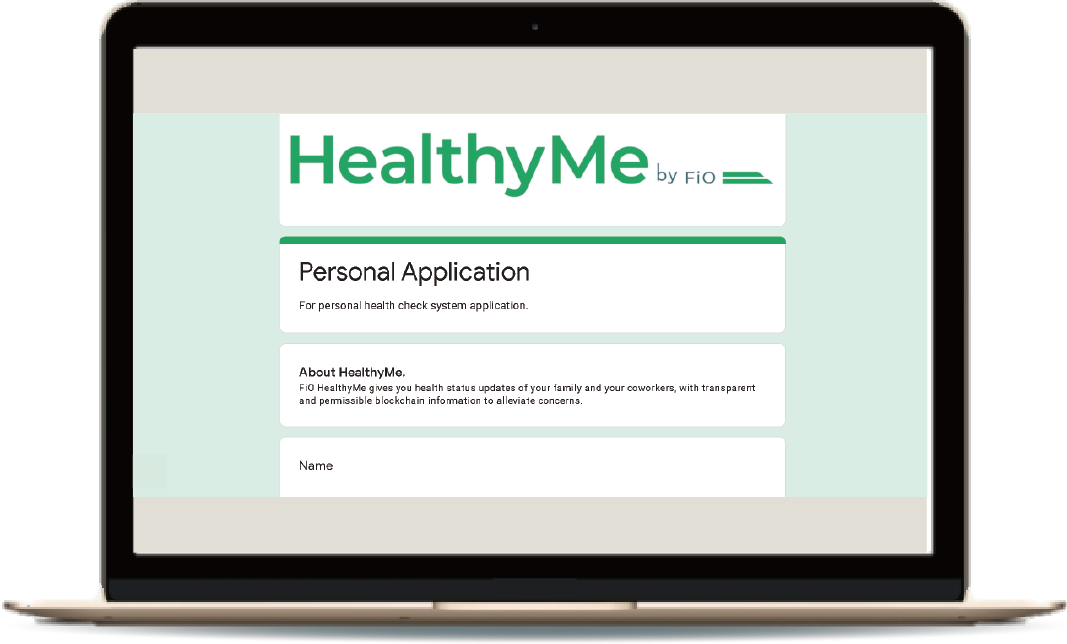
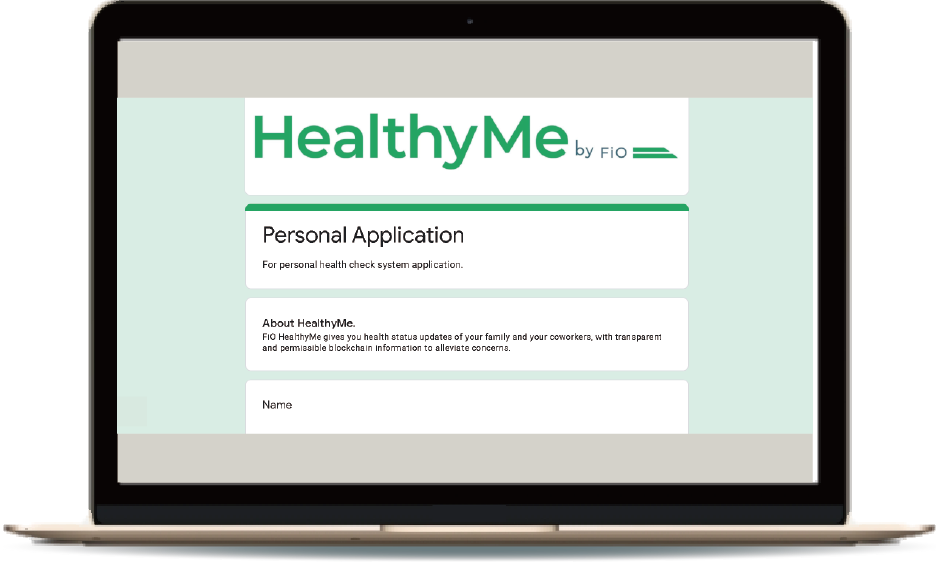
update about, login page, add og info

diff --git a/src/sass/theme.scss b/src/sass/theme.scss
@@ -74,10 +74,11 @@ body {
 }
 
 .content-container {
-  margin-left: 42vw;
+  margin-left: 41.6vw;
   min-height: 100vh;
   .content-container-inner {
-    padding: 140px 60px 60px 60px;
+    box-sizing: border-box;
+    padding: 140px 45px 0 45px;
     min-height: calc(100vh - 140px);
   }
 }
@@ -231,7 +232,7 @@ body {
     @include border-radius(5px);
     padding: 8px 12px;
     line-height: 30px;
-    border: 1px solid $base-color;
+    border: 1px solid #008ec7;
     background: #FFF;
     color: $base-color;
     width: 93%;
@@ -254,10 +255,17 @@ body {
 
 .auth-form, .register-form {
   width: 80%;
+  .title {
+    color: #92b4c5;
+    font-weight: bold;
+    font-size: $xl-font;
+    margin-bottom: 24px;
+  }
   .help-text {
-    font-size: $xs-font;
-    color: $base-color;
-    margin-top: 4px;
+    margin-top: 10px;
+    font-size: $m-font;
+    color: #708b98;
+    font-weight: bold;
   }
   .text-link {
     font-size: $s-font;
@@ -271,6 +279,22 @@ body {
     margin-top: 30px;
     text-align: center;
   }
+  .register-area {
+    margin-top: 65px;
+    .title {
+      color: #566a74;
+      font-size: $m-font;
+      font-weight: bold;
+      margin-bottom: 15px;
+    }
+    .about-link {
+      margin-top: 30px;
+      color: #708b98;
+      font-size: $s-font;
+      text-decoration: underline;
+    }
+  }
+
 }
 
 //button
@@ -389,25 +413,6 @@ body {
   }
 }
 
-.welcome-container {
-  p {
-    color: #92b4c5;
-    margin-bottom: 16px;
-    font-size: $xl-font;
-    padding: 0 30px;
-  }
-  .btn {
-    display: block;
-    width: 100%;
-    text-align: center;
-    padding: 12px 0;
-    margin-bottom: 30px;
-    &:last-child {
-      margin-bottom: 0;
-    }
-  }
-}
-
 .about-cover {
   background-size: cover;
   background: transparent url(../image/about-bg.jpeg) scroll no-repeat 50% 50%;
@@ -441,7 +446,7 @@ body {
   position: relative;
   
   .printscreen {
-    width: 80%;
+    width: 85%;
     margin: 0 auto 15px auto;
     display: block;
   }
@@ -463,6 +468,18 @@ body {
       &:hover {
         color: #e33c0b;
         text-decoration: underline;
+      }
+    }
+    .btn {
+      padding: 8px 24px;
+      display: inline-block;
+      background: #005dab;
+      border: 1px solid #005dab;
+      color: #FFF;
+      &:hover {
+        text-decoration: none;
+        color: #FFF;
+        background: rgba(#005dab, .8);
       }
     }
   }

diff --git a/src/js/main.js b/src/js/main.js
@@ -12,7 +12,7 @@ function validateEmail(email) {
 var data = {
 	user: undefined,
 	username: '',
-	page: 'welcome',
+	page: 'login',
 	apply: {
 		'name': '',
 		'email': '',
@@ -118,7 +118,7 @@ window.addEventListener('load', function () {
 					logTitle: 'Init',
 					hookSuccess: function(aio_data) {
 						if (typeof aio_data.username === 'undefined')
-							return data.page = 'welcome';
+							return data.page = 'login';
 
 						// user logined
 						vue_data.user = {username: aio_data.username};
@@ -143,14 +143,8 @@ window.addEventListener('load', function () {
 					return Math.round(n) + '%';
 				}
 			},
-			//setCookie: function(data) {
-			//	this.$cookies.set('fio_health', {
-			//		// 'login': data.username,
-			//		'token': 1
-			//	}, '1d');
-			//},
 			resetErrorMessage: function(id) {
-				$(id).removeClass('is-invalid is-valid')
+				$(id).find('.form-group').removeClass('is-invalid is-valid')
 					.find('.invalid-feedback').text('');
 			},
 			setErrorMessage: function(id, message) {
@@ -201,7 +195,6 @@ window.addEventListener('load', function () {
 						}
 						break;
 				}
-
 			},
 			register: function() {
 				// reset
@@ -251,14 +244,7 @@ window.addEventListener('load', function () {
 
 				if(validate) {
 					console.log(200);
-
-					//todo: clear form
-					alert('register success.');
-					// vue.goPage('login');
-					// api('/register', data, function(result) {
-					// }, function(result){
-					//		 vue.setErrorMessage('#form-group-username', result.data.message);
-					// });
+					vue.goPage('login');
 				}
 			},
 			login: function() {

diff --git a/src/sass/mobile.scss b/src/sass/mobile.scss
@@ -66,16 +66,6 @@
 	  }
 	}
 
-	.welcome-container {
-	  p {
-	    margin-bottom: 25px;
-	    font-size: $l-font;
-	  }
-	  .btn {
-	    margin-bottom: 25px;
-	  }
-	}
-
 	.about-cover {
 	  nav {
 	    margin: 4px 12px;

diff --git a/src/sass/tablet.scss b/src/sass/tablet.scss
@@ -56,16 +56,6 @@
 	  }
 	}
 
-	.welcome-container {
-	  p {
-	    margin-bottom: 25px;
-	    font-size: $l-font;
-	  }
-	  .btn {
-	    margin-bottom: 25px;
-	  }
-	}
-
 	.about-cover {
 	  nav {
 	    margin: 8px 12px;
